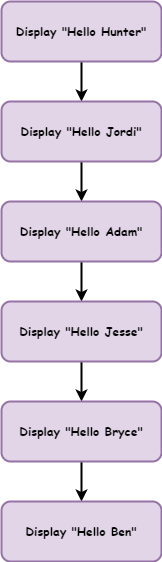
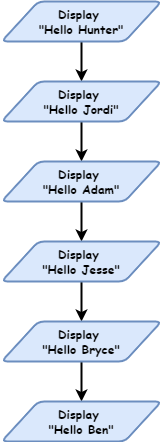
Correction of all flowcharsts lessons 1-4

diff --git a/lesson_4.md b/lesson_4.md
@@ -469,7 +469,7 @@ When a program is broken into smaller algorithms (eg. functions) you create a fl
 
 We show the name of the function in the terminator symbol, with the first algorithm being called **main**.
 
-Here is the flowchart of the code with the `move_pen` function. The function calls use the procedure symbol (I have coloured them blue to make them stand out).
+Here is the flowchart of the code with the `move_pen` function. The function calls use the procedure symbol (I have coloured them red to make them stand out).
 
 <img align="left" src="assets/flowchart_lesson_4_2.png">
 
@@ -746,9 +746,7 @@ Follow the instructions in the comments and write a program that draws a car.
 
 <iframe width="560" height="315" src="https://www.youtube.com/embed/HUEgYhYAuB0" title="YouTube video player" frameborder="0" allow="accelerometer; autoplay; clipboard-write; encrypted-media; gyroscope; picture-in-picture" allowfullscreen></iframe>
 
-### Respond to users
-
-How can we make the computer respond to the user?
+### Introduction
 
 Copy the code below, save it as **lesson_4_pt_2.py** then run it.
 
@@ -787,7 +785,9 @@ When we run the code the shape is partially off the screen. That's not a big pro
 
 How do we make our programs interactive by getting input from users who cannot code?
 
-The simplest way to do this is to use the `input` command which will ask the user for input in the **Shell**.
+### Making your program interactive
+
+The simplest way to make your program interactive is to use the `input` command which will ask the user for their input in the **Shell**.
 
 To do this change:
 
@@ -911,7 +911,11 @@ There is a great deal more to this, but at the moment this is all you need to kn
 
 So let's change our code so that the strings that are received by the `input` functions are converted into integers.
 
-Make the changes below to lines `17` and `18`.
+Here is the finished code as a flowchart. Note that we use the same symbol for input as we do for output, with different wording.
+
+<img align="left" src="assets/flowchart_lesson_4_4.png">
+
+Below is the finished code, with the changes on lines `19` and `20`.
 
 ```python
 import turtle

diff --git a/lesson_2.md b/lesson_2.md
@@ -17,7 +17,11 @@ So far with our programming Python has been executing each line of our code one 
 
 ### Introduction to flowcharts
 
-There is a special diagram that is used to show this flow of the computer program. It's called a **flowchart**. Flowcharts show each process in a program and how the program moves from one process to the next. We use rectangles to symbolise processes and arrows to represent the flow.
+There is a special diagram that is used to show this flow of the computer program. It's called a **flowchart**. Flowcharts show each process in a program and how the program moves from one process to the next. We use:
+
+- rectangles symbolise processes
+- parallelograms symbolise inputs or outputs
+- arrows represent the flow
 
 <img align="left" src="./assets/flow_chart_symbol_1.png">
 
@@ -158,7 +162,9 @@ Before we do, we need to learn about two more flowchart symbols:
 
 <img align="left" src="./assets/flow_charts_symbol_2.png">
 
-Now let's look at the `for` loop flowchart. The symbols within the dotted box are the `for` loop. Note, the dotted box has been added to help identify the `for` loop structure, and is not a normal flowchart symbol. 
+Now let's look at the `for` loop flowchart. The symbols within the dotted box are the `for` loop. 
+
+>  **Note:** the dotted box has been added to help you identify the `for` loop structure. It is not a normal flowchart symbol. 
 
 <img align="left" src="./assets/flowcharts_for_loop.png">
 

diff --git a/lesson_3.md b/lesson_3.md
@@ -250,7 +250,7 @@ import turtle
 screen = 500
 sides = 6
 length = 100
-DEGREES_IN_CIRCLE = 360
+CIRCLE_DEG = 360
 
 window = turtle.Screen()
 window.setup(screen, screen)
@@ -265,7 +265,7 @@ The flowchart for this code now looks like:
 
 <img align="left" src="assets/flowchart_lesson_3_2.png">
 
-In line `6` we have created another variable called `DEGREES_IN_CIRCLE` and assigned it `360`. We have capitalised the name because the value of `360` will never change, no matter what shape we wish to draw. We call variables whose values doesn't change **constants**. In Python's naming conventions, constants are capitalised.
+In line `6` we have created another variable called `CIRCLE_DEG` and assigned it `360`. We have capitalised the name because the value of `360` will never change, no matter what shape we wish to draw. We call variables whose values doesn't change **constants**. In Python's naming conventions, constants are capitalised.
 
 > **Naming conventions**
 >
